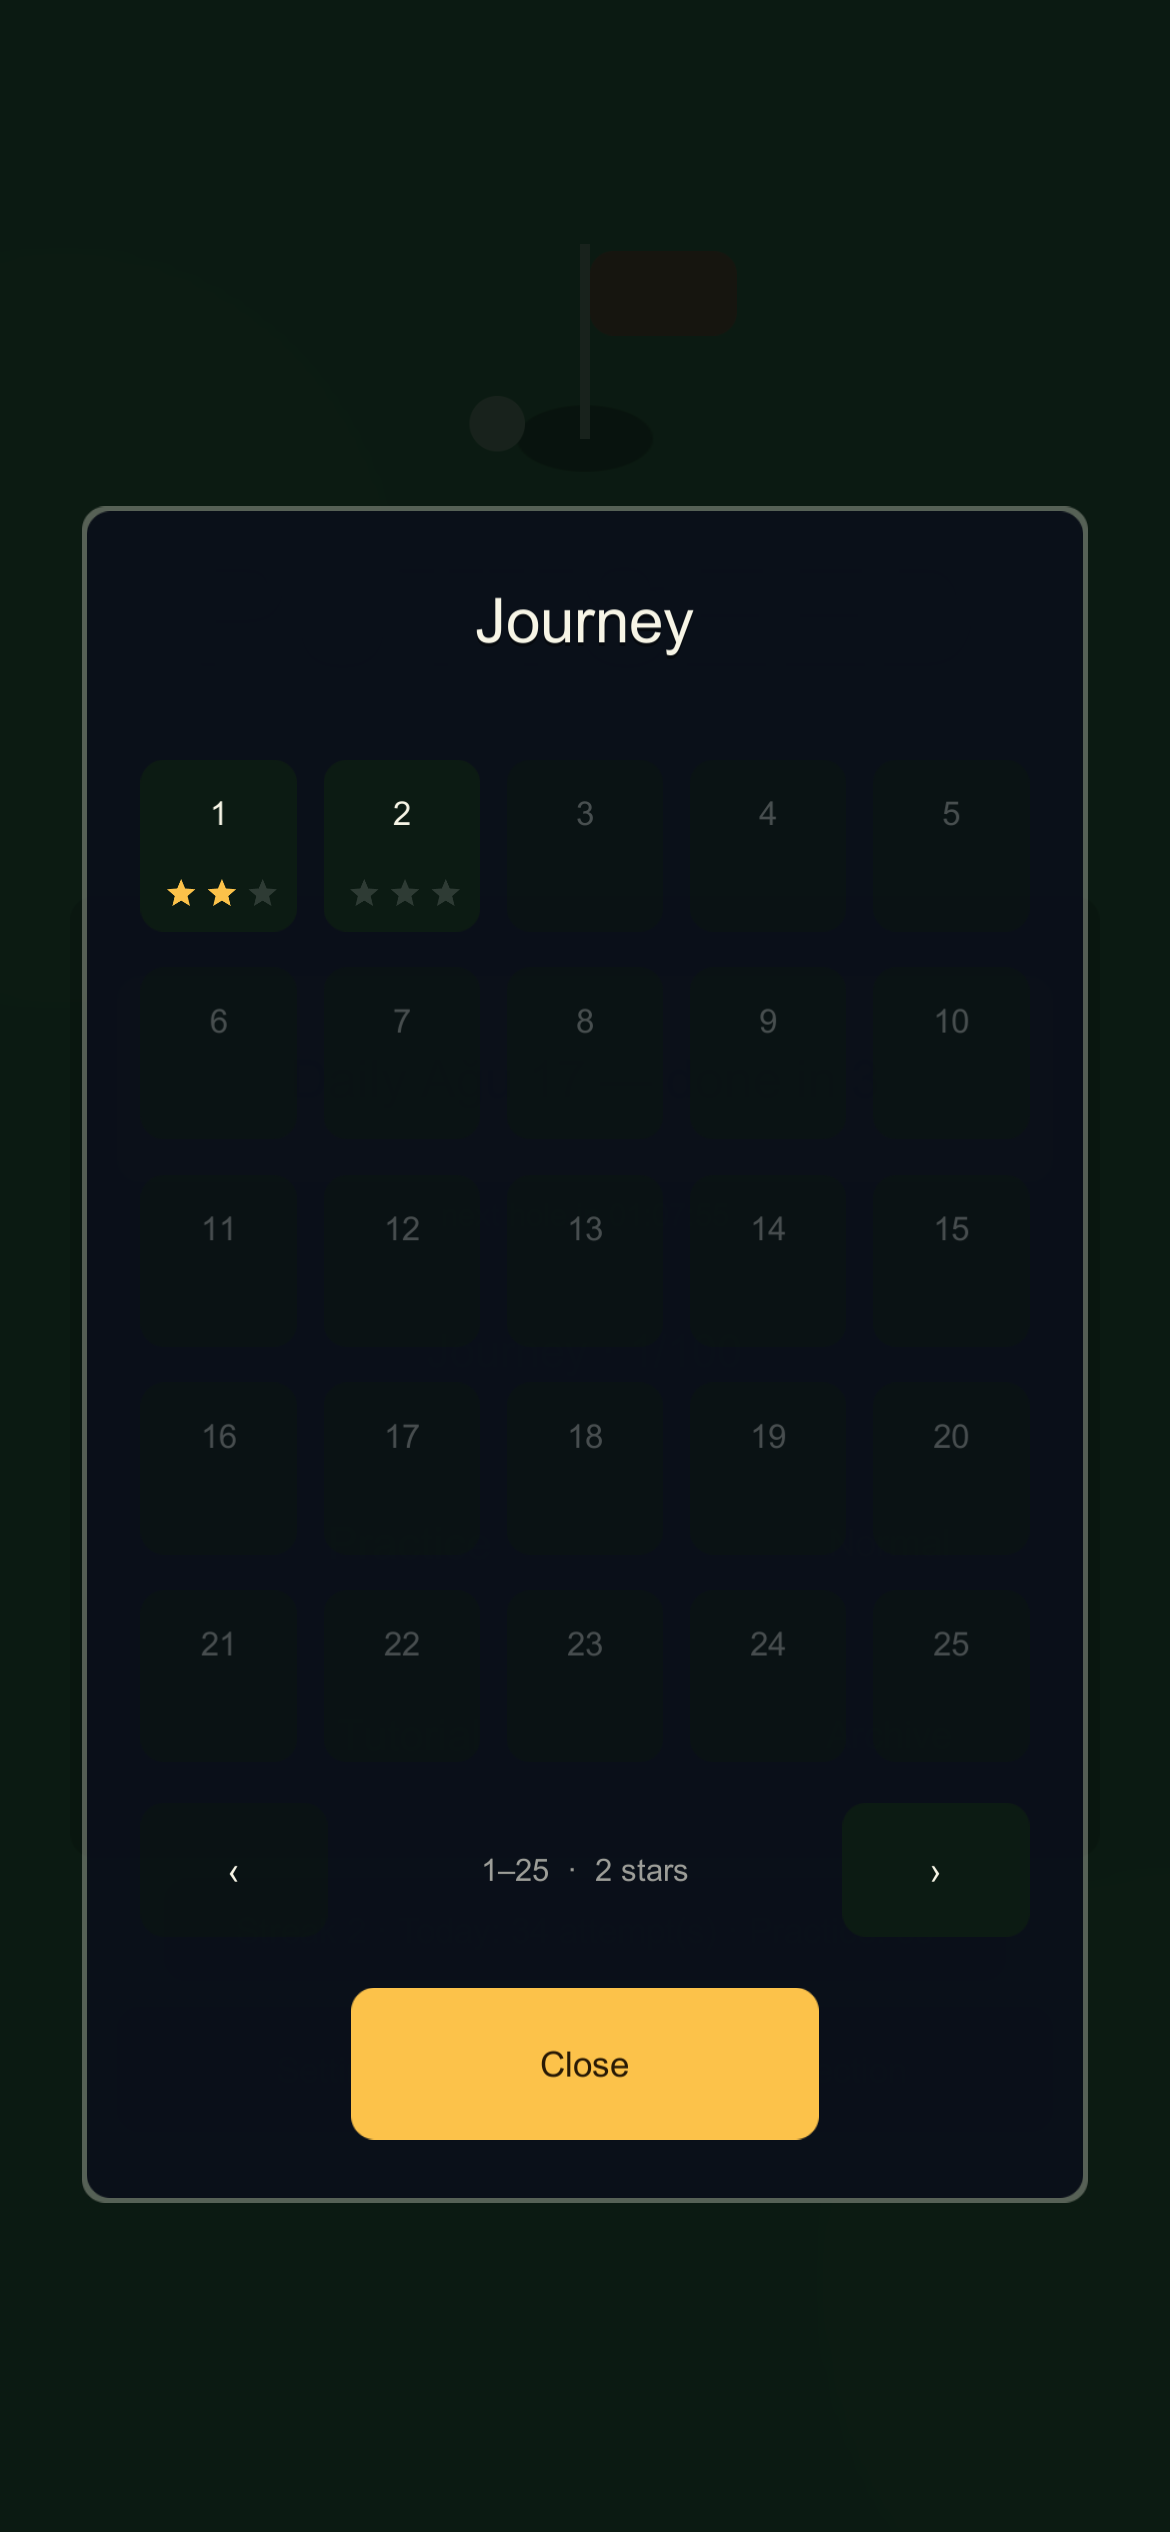
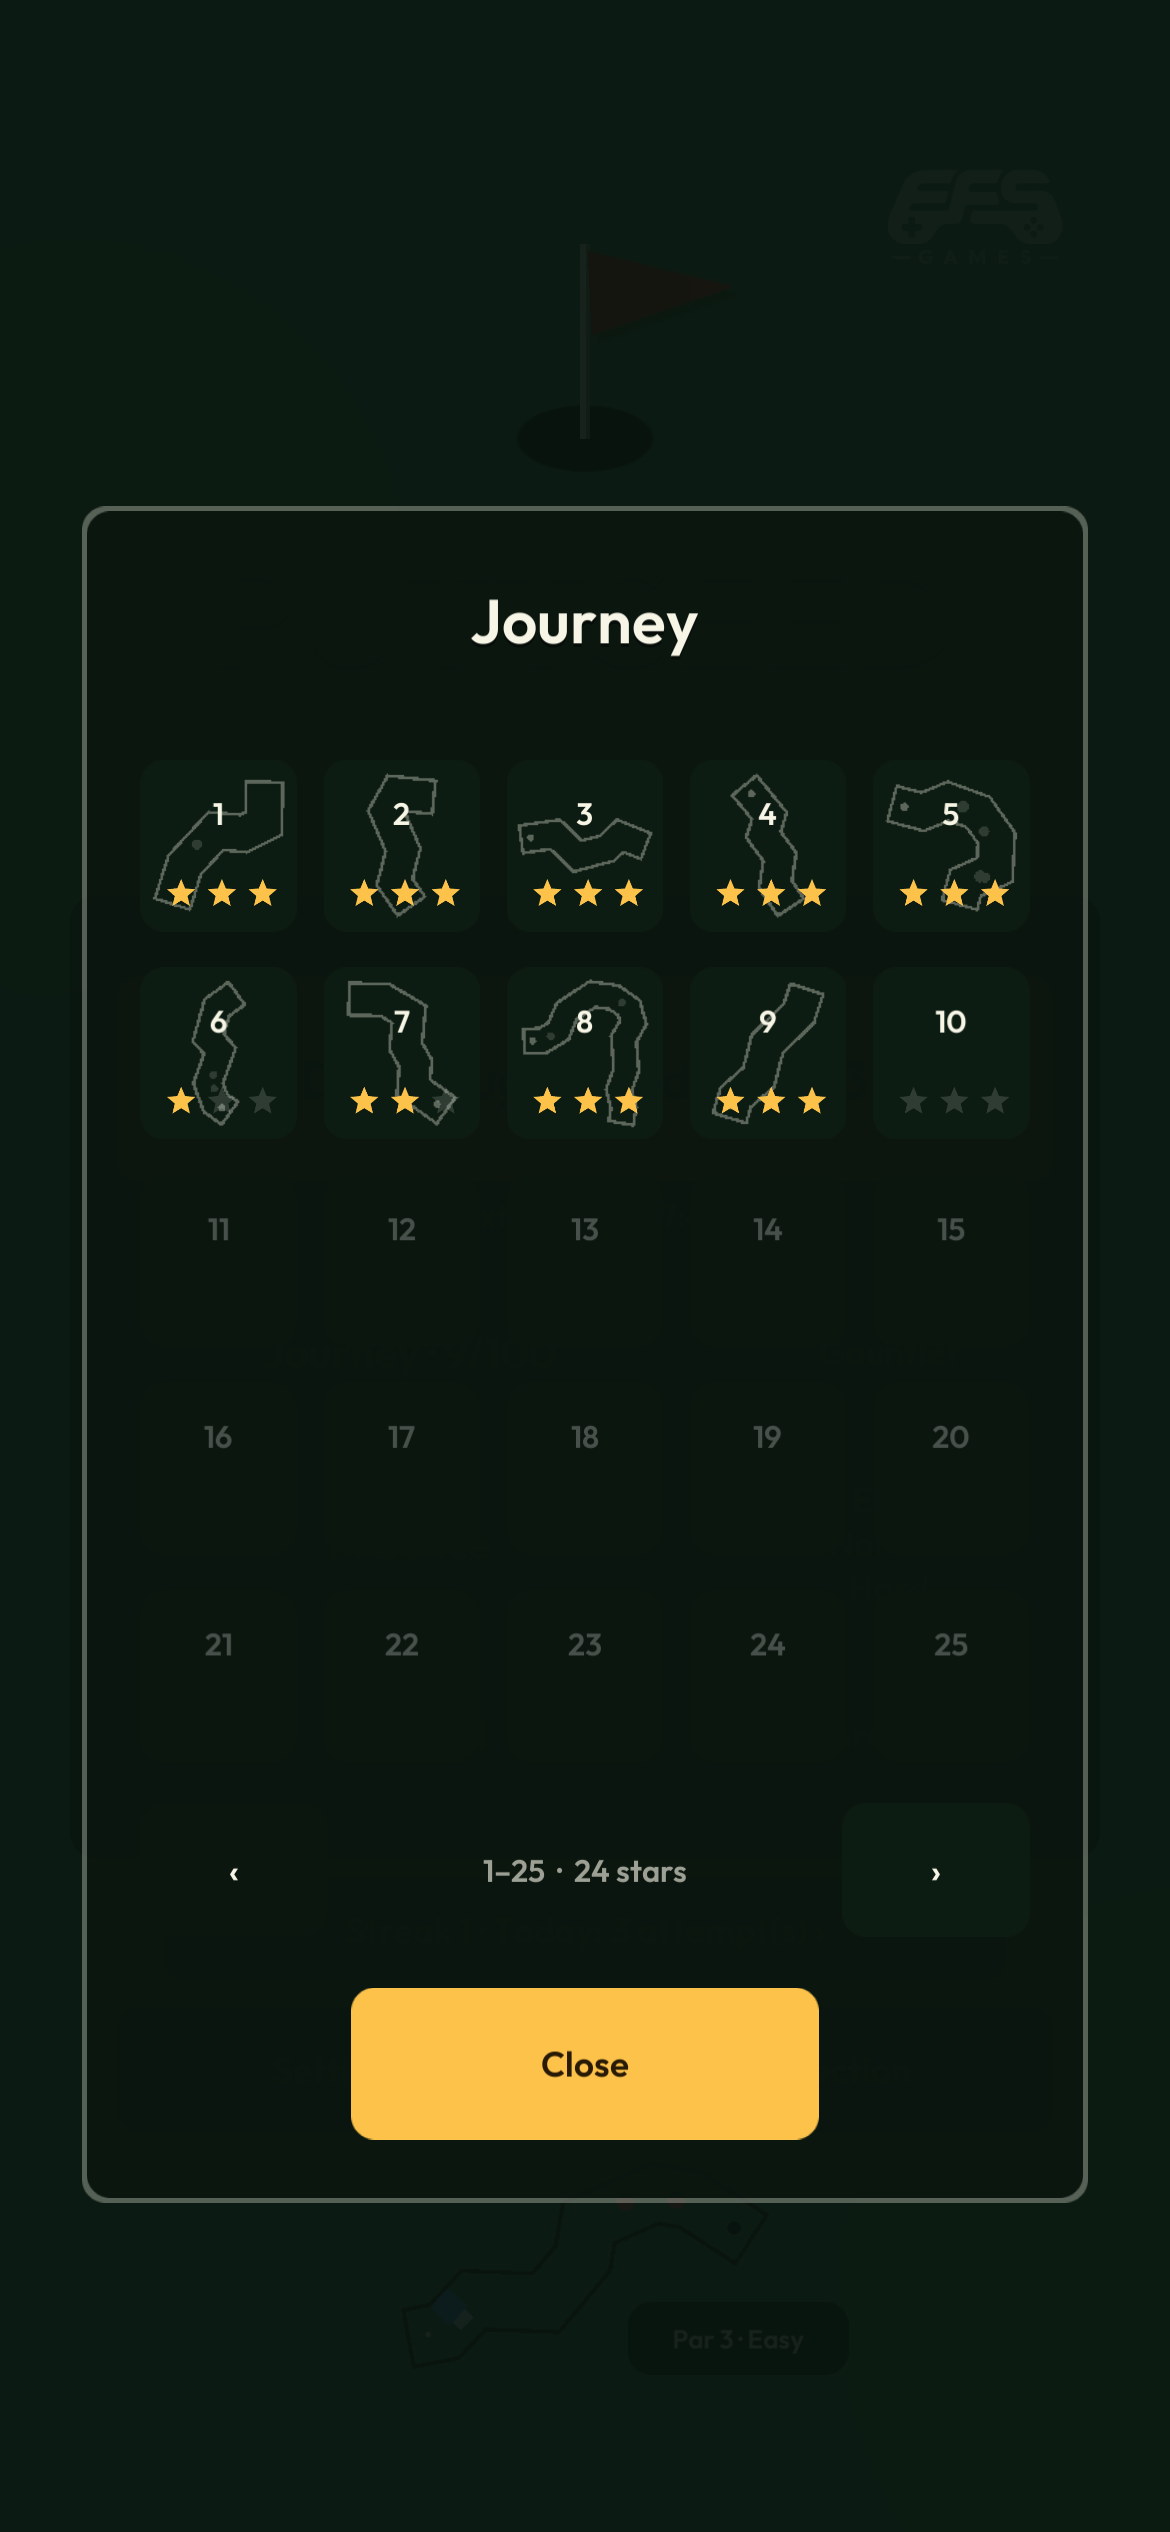
docs: the screenshots show the game that exists now
The four in the README were captured on 18 August, before the palette pass,
the menu surfaces, the course lighting, the ball work, the flow fixes and the
generator's move to v4. They showed a game that had not existed for a month,
which on a repo whose whole argument is "the tests prove what the text
claims" is the one kind of stale that costs something.

Six now, and the two new ones carry things no picture showed before:

- The day's closing card, which is where the daily rule actually lives. It
  reads "4 strokes · best 3" -- the answer is the FIRST finish and the three
  is a personal best, exactly the distinction DAILY-1 introduced and nothing
  in the README could demonstrate.
- The archive as a month calendar, which is the claim that every past day
  regenerates from its date, made visible: played days lit with their stars,
  today in amber, the future left dead.

The playing shot is now taken mid-drag with the aim line drawn, which is what
the F9 shortcut was added for, and the journey grid shows what the level
cells became -- each one etched with the shape of its own course.

Alt text is written out rather than summarised: this repo is read by people,
and a screenshot with no alt text is a blank to some of them.

diff --git a/README.md b/README.md
@@ -32,16 +32,24 @@ read.
 
 <table>
   <tr>
-    <td align="center"><img src="docs/media/menu.png" width="200" alt="Main menu: today's hole, the journey campaign, practice and archive"></td>
-    <td align="center"><img src="docs/media/daily-hole.png" width="200" alt="A daily hole: sand and ice zones, bumpers, the cup tucked into sand"></td>
-    <td align="center"><img src="docs/media/journey.png" width="200" alt="Journey level select: a paged grid of 100 levels with per-level stars"></td>
-    <td align="center"><img src="docs/media/collection.png" width="200" alt="Collection: ball skins in a grid, the equipped one wearing an accent ring"></td>
+    <td align="center"><img src="docs/media/menu.png" width="210" alt="Main menu: today's hole finished in three, a countdown to the next one, and the modes — journey, gauntlet, practice, tutorial, archive — over a thumbnail of the day's course"></td>
+    <td align="center"><img src="docs/media/daily-hole.png" width="210" alt="A daily hole mid-shot: the aim line drawn back from the ball on an ice patch, with bumpers, a portal, a ramp and water between it and the cup"></td>
+    <td align="center"><img src="docs/media/daily-card.png" width="210" alt="The card that closes the day: two stars, four strokes with a personal best of three, the streak, a countdown and the share button"></td>
   </tr>
   <tr>
     <td align="center"><b>Today's hole</b><br>one course, everyone</td>
-    <td align="center"><b>The elements</b><br>sand, ice, bumpers</td>
+    <td align="center"><b>The elements</b><br>ice, bumpers, portals, water</td>
+    <td align="center"><b>The day closes</b><br>your first finish is the answer</td>
+  </tr>
+  <tr>
+    <td align="center"><img src="docs/media/journey.png" width="210" alt="Journey level select: a paged grid where every cell is etched with the shape of its own course, stars underneath, locked levels dimmed"></td>
+    <td align="center"><img src="docs/media/collection.png" width="210" alt="Collection: twelve ball skins in a grid, the equipped one ringed in its own colour, locked ones dark"></td>
+    <td align="center"><img src="docs/media/calendar.png" width="210" alt="The archive as a month calendar: played days lit with their stars, today picked out in amber, days that have not happened yet left dead"></td>
+  </tr>
+  <tr>
     <td align="center"><b>Journey</b><br>100 curated seeds</td>
-    <td align="center"><b>Collection</b><br>progression-gated skins</td>
+    <td align="center"><b>Collection</b><br>earned, never sold</td>
+    <td align="center"><b>The archive</b><br>every past day regenerates</td>
   </tr>
 </table>
 
